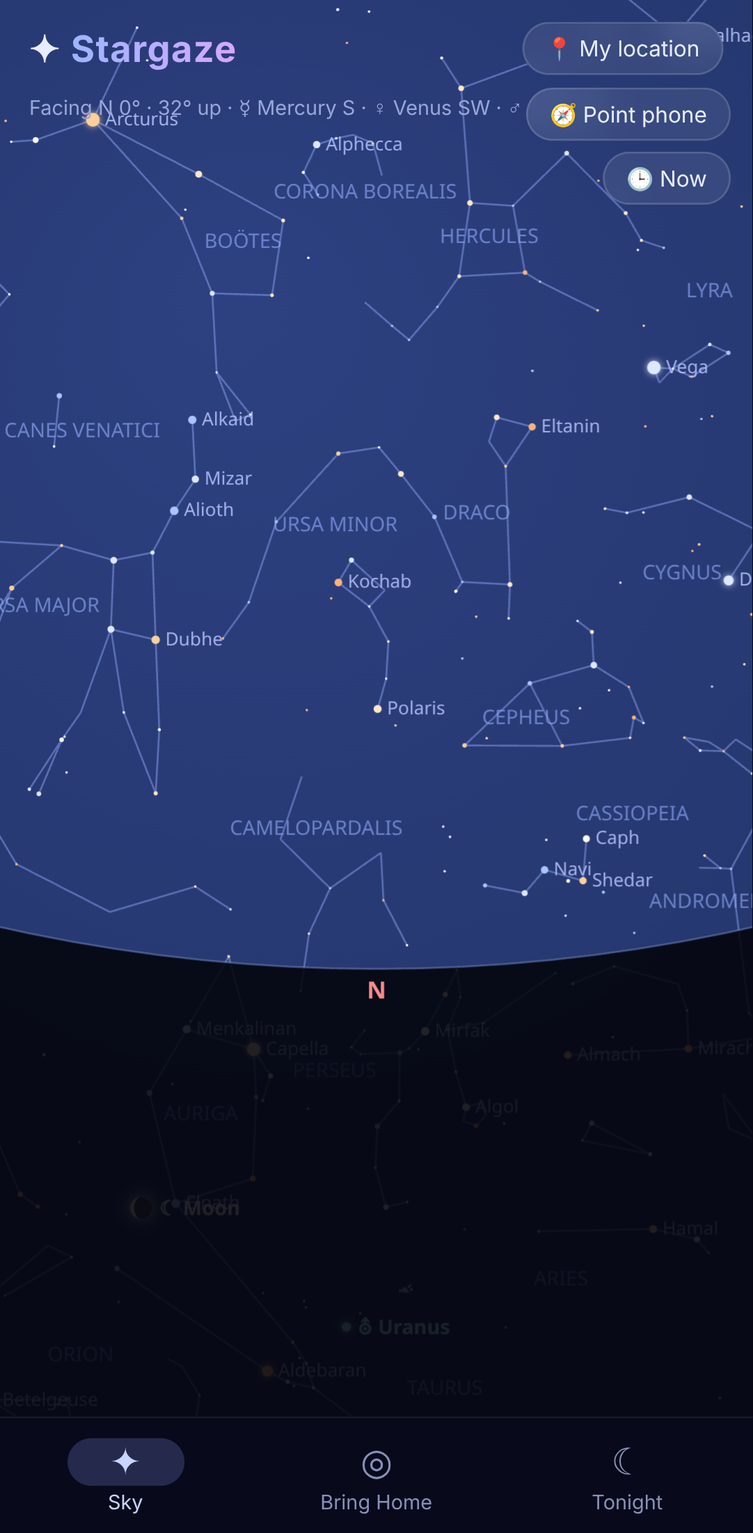
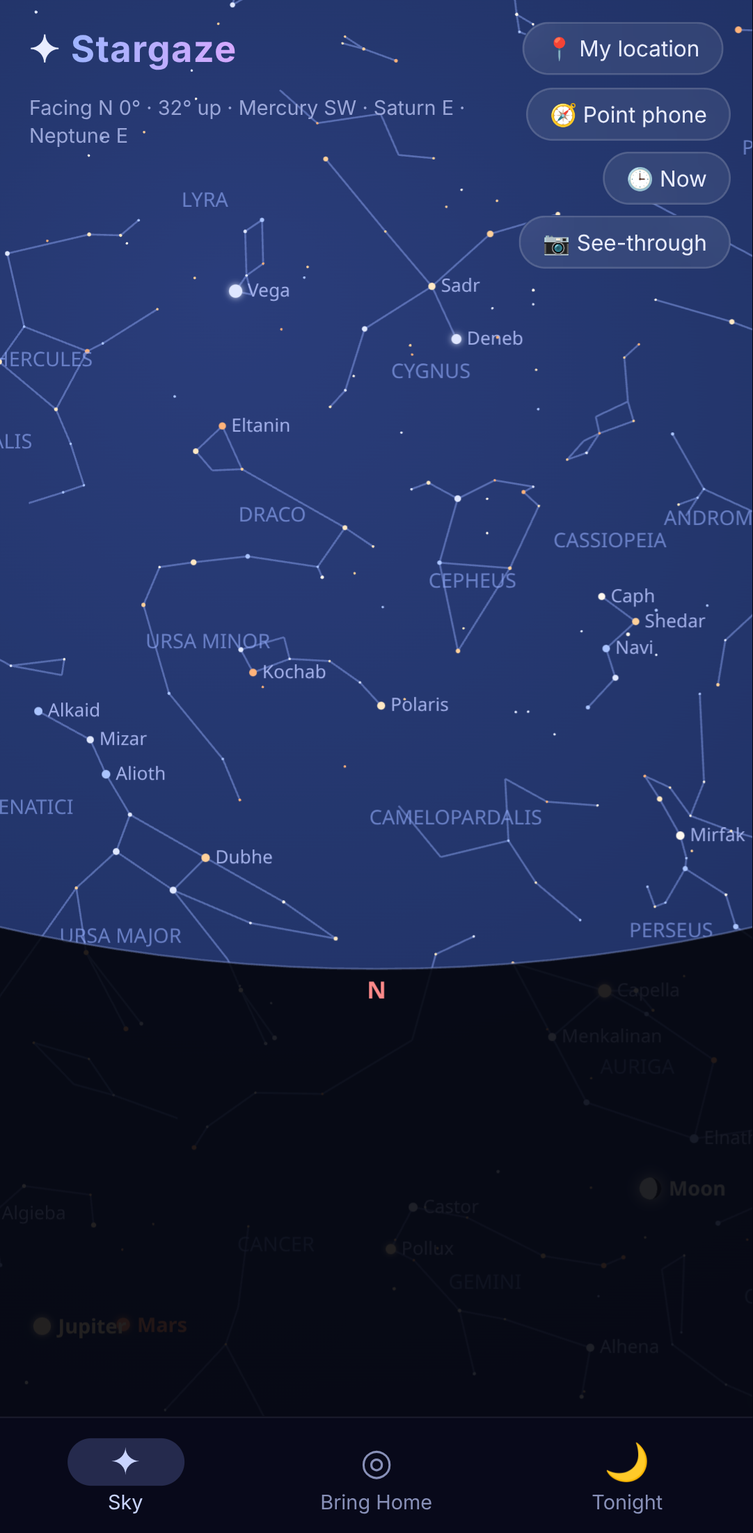
v2: full-sphere navigation, see-through camera mode, remove astrology content, SW v2

diff --git a/sky.js b/sky.js
@@ -8,7 +8,7 @@ const stars=D.stars.map(s=>({v:vec(s[0],s[1]),m:s[2],bv:s[3],name:s[4],des:s[5],
 const lines=Object.entries(D.lines).map(([id,segs])=>({id,segs:segs.map(sg=>sg.map(p=>vec(p[0],p[1])))}));
 const cons=Object.entries(D.cons).map(([id,c])=>({id,n:c.n,v:vec(c.ra,c.de),r:c.r}));
 const BODIES=['Sun','Moon','Mercury','Venus','Mars','Jupiter','Saturn','Uranus','Neptune'];
-const SYM={Sun:'☉',Moon:'☾',Mercury:'☿',Venus:'♀',Mars:'♂',Jupiter:'♃',Saturn:'♄',Uranus:'⛢',Neptune:'♆'};
+const SYM={Sun:'',Moon:'',Mercury:'',Venus:'',Mars:'',Jupiter:'',Saturn:'',Uranus:'',Neptune:''};
 const PCOL={Sun:'#fff3b0',Moon:'#f4f1e6',Mercury:'#d9cbb8',Venus:'#fff7dd',Mars:'#ff9a6a',Jupiter:'#ffe7c2',Saturn:'#ffe2a6',Uranus:'#b9f0ff',Neptune:'#8fb2ff'};
 function bvColor(bv){if(bv<0)return'#aac4ff';if(bv<.3)return'#dfe7ff';if(bv<.6)return'#fff8ee';if(bv<1)return'#ffe8c4';if(bv<1.4)return'#ffd09a';return'#ffb27a'}
 let M=null,planets=[],now=new Date(),lastCalc=0;
@@ -24,11 +24,21 @@ function recalc(){
 function enu(v){const x=M[0][0]*v[0]+M[1][0]*v[1]+M[2][0]*v[2],y=M[0][1]*v[0]+M[1][1]*v[1]+M[2][1]*v[2],z=M[0][2]*v[0]+M[1][2]*v[1]+M[2][2]*v[2];return [-y,x,z]}
 function altaz(e){return {alt:Math.asin(Math.max(-1,Math.min(1,e[2])))/R,az:((Math.atan2(e[0],e[1])/R)+360)%360}}
 function fromAltAz(alt,az){alt*=R;az*=R;return [Math.cos(alt)*Math.sin(az),Math.cos(alt)*Math.cos(az),Math.sin(alt)]}
-function dragBasis(){const a=st.az*R,l=st.alt*R;const f=[Math.sin(a)*Math.cos(l),Math.cos(a)*Math.cos(l),Math.sin(l)];
+function basisFromAltAz(az,alt){const a=az*R,l=alt*R;const f=[Math.sin(a)*Math.cos(l),Math.cos(a)*Math.cos(l),Math.sin(l)];
   const r=[Math.cos(a),-Math.sin(a),0];const u=[-Math.sin(a)*Math.sin(l),-Math.cos(a)*Math.sin(l),Math.cos(l)];return {f,r,u}}
+const cross=(a,b)=>[a[1]*b[2]-a[2]*b[1],a[2]*b[0]-a[0]*b[2],a[0]*b[1]-a[1]*b[0]];
+const norm=v=>{const l=Math.hypot(v[0],v[1],v[2])||1;return [v[0]/l,v[1]/l,v[2]/l]};
+function rotv(v,k,ang){const c=Math.cos(ang),s=Math.sin(ang),kv=cross(k,v),kd=k[0]*v[0]+k[1]*v[1]+k[2]*v[2];return v.map((x,i)=>x*c+kv[i]*s+k[i]*kd*(1-c))}
+function ortho(b){const f=norm(b.f);const r=norm(cross(f,b.u));const u=cross(r,f);return {f,r,u}}
+let view=basisFromAltAz(180,35);
+function setView(az,alt){view=basisFromAltAz(az,alt)}
+// yaw about world zenith, pitch about the camera's own right axis: works through zenith/nadir (no gimbal lock, no clamp)
+function dragBy(yaw,pitch){const Z=[0,0,1];let b={f:rotv(view.f,Z,yaw),r:rotv(view.r,Z,yaw),u:rotv(view.u,Z,yaw)};
+  b={f:rotv(b.f,b.r,pitch),r:b.r,u:rotv(b.u,b.r,pitch)};view=ortho(b)}
+function dragBasis(){return view}
 const dot=(a,b)=>a[0]*b[0]+a[1]*b[1]+a[2]*b[2];
 let B,S;
-function proj(e){const d=dot(e,B.f);if(d<-0.3)return null;const k=2*S/(1+d);return [W/2+dot(e,B.r)*k,H/2-dot(e,B.u)*k,d]}
+function proj(e){const d=dot(e,B.f);if(st.cam){if(d<0.05)return null;const k=S/d;return [W/2+dot(e,B.r)*k,H/2-dot(e,B.u)*k,d]}if(d<-0.3)return null;const k=2*S/(1+d);return [W/2+dot(e,B.r)*k,H/2-dot(e,B.u)*k,d]}
 function resize(){dpr=Math.min(window.devicePixelRatio||1,3);W=cv.clientWidth;H=cv.clientHeight;cv.width=W*dpr;cv.height=H*dpr;cx.setTransform(dpr,0,0,dpr,0,0)}
 window.addEventListener('resize',resize);
 // sensors
@@ -45,30 +55,58 @@ function onOri(e){
   const z=[cG*sA*sB+cA*sG, sA*sG-cA*cG*sB, cB*cG];
   const ang=((screen.orientation&&screen.orientation.angle)||window.orientation||0)*R;
   if(ang){const c=Math.cos(ang),s=Math.sin(ang);const nx=x.map((v,i)=>c*v+s*y[i]),ny=y.map((v,i)=>-s*x[i]+c*v);x=nx;y=ny}
-  const nb={r:x,u:y,f:z.map(v=>-v)};
-  if(!sens)sens=nb;else{const k=0.25;for(const key of ['r','u','f'])sens[key]=sens[key].map((v,i)=>v+(nb[key][i]-v)*k)}
+  feed({r:x,u:y,f:z.map(v=>-v)});
 }
+// Full rotation-matrix smoothing: low-pass each basis vector then re-orthonormalise (no Euler angles, no clamps)
+function feed(nb){if(!sens)sens=ortho(nb);else{const k=0.25;const m={};for(const key of ['r','u','f'])m[key]=sens[key].map((v,i)=>v+(nb[key][i]-v)*k);sens=ortho(m)}lastSens=Date.now()}
+let lastSens=0,aos=null;
+// Preferred on Android Chrome: AbsoluteOrientationSensor quaternion, screen-referenced (handles rotation, no gimbal lock)
+function startAOS(){try{if(!('AbsoluteOrientationSensor' in window))return false;
+  aos=new AbsoluteOrientationSensor({frequency:60,referenceFrame:'screen'});
+  aos.addEventListener('reading',()=>{const [qx,qy,qz,qw]=aos.quaternion;
+    const c0=[1-2*(qy*qy+qz*qz),2*(qx*qy+qz*qw),2*(qx*qz-qy*qw)],c1=[2*(qx*qy-qz*qw),1-2*(qx*qx+qz*qz),2*(qy*qz+qx*qw)],c2=[2*(qx*qz+qy*qw),2*(qy*qz-qx*qw),1-2*(qx*qx+qy*qy)];
+    gotAbs=true;feed({r:c0,u:c1,f:c2.map(v=>-v)})});
+  aos.addEventListener('error',()=>{try{aos.stop()}catch(e){}aos=null});aos.start();return true}catch(e){aos=null;return false}}
 const sBtn=document.getElementById('sensorBtn');
-let gotAbs=false;
-sBtn.onclick=async()=>{
-  if(st.sensor){st.sensor=false;sBtn.classList.remove('a');sBtn.textContent='🧭 Point phone';const a=altaz(sens?sens.f:B.f);st.az=a.az;st.alt=a.alt;return}
-  try{if(typeof DeviceOrientationEvent!=='undefined'&&DeviceOrientationEvent.requestPermission){const p=await DeviceOrientationEvent.requestPermission();if(p!=='granted')throw 0}}catch(e){alert('Motion sensor permission denied — drag to look around instead.');return}
-  window.addEventListener('deviceorientationabsolute',e=>{gotAbs=true;onOri(e)},true);
-  window.addEventListener('deviceorientation',e=>{if(!gotAbs)onOri(e)},true);
+let gotAbs=false,listening=false;
+const oAbs=e=>{if(aos&&Date.now()-lastSens<300)return;gotAbs=true;onOri(e)},oRel=e=>{if(!gotAbs)onOri(e)};
+async function startSensor(quiet){
+  try{if(typeof DeviceOrientationEvent!=='undefined'&&DeviceOrientationEvent.requestPermission){const p=await DeviceOrientationEvent.requestPermission();if(p!=='granted')throw 0}}catch(e){if(!quiet)alert('Motion sensor permission denied — drag to look around instead.');return false}
+  startAOS();
+  if(!listening){window.addEventListener('deviceorientationabsolute',oAbs,true);window.addEventListener('deviceorientation',oRel,true);listening=true}
   st.sensor=true;sBtn.classList.add('a');sBtn.textContent='🧭 Live · tap to stop';
-  setTimeout(()=>{if(st.sensor&&!sens){alert('No compass/tilt sensor data from this browser. Drag to pan instead.');st.sensor=false;sBtn.classList.remove('a');sBtn.textContent='🧭 Point phone'}},2500);
-};
+  setTimeout(()=>{if(st.sensor&&!sens){if(!quiet)alert('No compass/tilt sensor data from this browser. Drag to pan instead.');stopSensor()}},2500);return true}
+function stopSensor(){if(sens)view=ortho(sens);st.sensor=false;sens=null;if(aos){try{aos.stop()}catch(e){}aos=null}
+  if(listening){window.removeEventListener('deviceorientationabsolute',oAbs,true);window.removeEventListener('deviceorientation',oRel,true);listening=false;gotAbs=false}
+  sBtn.classList.remove('a');sBtn.textContent='🧭 Point phone'}
+sBtn.onclick=()=>{if(st.sensor){stopSensor();return}startSensor()};
+// ---- See-through camera mode ----
+const vid=document.getElementById('camVid'),camBtn=document.getElementById('camBtn'),fovBox=document.getElementById('fovBox'),fovIn=document.getElementById('fovIn'),fovOut=document.getElementById('fovOut');
+let camStream=null;st.cam=false;st.camVfov=+(localStorage.getItem('camVfov')||65);
+fovIn.value=st.camVfov;fovOut.textContent=st.camVfov+'°';
+fovIn.oninput=()=>{st.camVfov=+fovIn.value;fovOut.textContent=st.camVfov+'°';localStorage.setItem('camVfov',st.camVfov)};
+function curFovH(){return st.cam?2*Math.atan(Math.tan(st.camVfov*R/2)*W/H)/R:st.fov}
+async function startCam(){
+  if(!navigator.mediaDevices||!navigator.mediaDevices.getUserMedia){alert('Camera not available in this browser (needs HTTPS).');return}
+  if(!st.sensor)startSensor(true);  // keep inside the tap gesture for iOS permission
+  try{camStream=await navigator.mediaDevices.getUserMedia({audio:false,video:{facingMode:{ideal:'environment'},width:{ideal:1920},height:{ideal:1080}}})}
+  catch(e){console.warn('camera',e&&e.name,e&&e.message);alert('Camera permission was denied or no camera found.');return}
+  vid.srcObject=camStream;vid.muted=true;vid.setAttribute('playsinline','');try{await vid.play()}catch(e){}
+  st.cam=true;document.body.classList.add('cam');camBtn.classList.add('a');camBtn.textContent='📷 Camera on';fovBox.hidden=false}
+function stopCam(){if(camStream)camStream.getTracks().forEach(t=>t.stop());camStream=null;vid.srcObject=null;st.cam=false;document.body.classList.remove('cam');camBtn.classList.remove('a');camBtn.textContent='📷 See-through';fovBox.hidden=true}
+camBtn.onclick=()=>{st.cam?stopCam():startCam()};
+document.addEventListener('visibilitychange',()=>{if(document.hidden&&st.cam)stopCam()});
 // time button
 const tBtn=document.getElementById('timeBtn');const OFFS=[0,1,2,3,4,6,8,10];
 tBtn.onclick=()=>{const i=(OFFS.indexOf(st.offset)+1)%OFFS.length;st.offset=OFFS[i];tBtn.textContent=st.offset?'🕒 '+App.fmtT(time())+' (+'+st.offset+'h)':'🕒 Now';recalc()};
 // drag / pinch / tap
 const ptr=new Map();let down=null,pinch0=null;
-cv.addEventListener('pointerdown',e=>{cv.setPointerCapture(e.pointerId);ptr.set(e.pointerId,[e.clientX,e.clientY]);if(ptr.size===1)down={x:e.clientX,y:e.clientY,az:st.az,alt:st.alt,moved:false};
+cv.addEventListener('pointerdown',e=>{cv.setPointerCapture(e.pointerId);ptr.set(e.pointerId,[e.clientX,e.clientY]);if(ptr.size===1)down={x:e.clientX,y:e.clientY,lx:e.clientX,ly:e.clientY,moved:false};
   if(ptr.size===2){const p=[...ptr.values()];pinch0={d:Math.hypot(p[0][0]-p[1][0],p[0][1]-p[1][1]),fov:st.fov}}});
 cv.addEventListener('pointermove',e=>{if(!ptr.has(e.pointerId))return;ptr.set(e.pointerId,[e.clientX,e.clientY]);
   if(ptr.size===2&&pinch0){const p=[...ptr.values()];const d=Math.hypot(p[0][0]-p[1][0],p[0][1]-p[1][1]);st.fov=Math.max(20,Math.min(130,pinch0.fov*pinch0.d/d));if(down)down.moved=true;return}
   if(!down)return;const dx=e.clientX-down.x,dy=e.clientY-down.y;if(Math.hypot(dx,dy)>8)down.moved=true;
-  if(down.moved&&!st.sensor){const degpx=st.fov/W;st.az=((down.az-dx*degpx)%360+360)%360;st.alt=Math.max(-20,Math.min(90,down.alt+dy*degpx))}});
+  if(down.moved&&!st.sensor){const radpx=curFovH()*R/W;dragBy(-(e.clientX-down.lx)*radpx*(view.u[2]<0?-1:1),(e.clientY-down.ly)*radpx)}down.lx=e.clientX;down.ly=e.clientY;});
 const up=e=>{ptr.delete(e.pointerId);if(ptr.size<2)pinch0=null;if(down&&!down.moved&&ptr.size===0)tap(e.clientX-cv.getBoundingClientRect().left,e.clientY-cv.getBoundingClientRect().top);if(ptr.size===0)down=null};
 cv.addEventListener('pointerup',up);cv.addEventListener('pointercancel',e=>{ptr.delete(e.pointerId);down=null});
 cv.addEventListener('wheel',e=>{st.fov=Math.max(20,Math.min(130,st.fov*(e.deltaY>0?1.1:0.9)));e.preventDefault()},{passive:false});
@@ -83,7 +121,7 @@ function constOf(v){let best=null,bd=9;for(const c of cons){const d=1-dot(c.v,v)
 function openCard(o){st.sel=o;cur=o;tabK='sailors';const e=enu(o.v),aa=altaz(e);
   const pos=`Now ${aa.alt.toFixed(0)}° up in the ${App.dirName(aa.az)} (az ${aa.az.toFixed(0)}°)`+(aa.alt<0?' — below the horizon':'');
   let t,sub,data;
-  if(o.kind==='planet'){data=F.planets[o.name]||{};t=SYM[o.name]+' '+o.name;sub=(data.sub||'')+' · '+(o.name==='Moon'?(o.dist*149597870.7).toFixed(0)+' km away':o.dist.toFixed(2)+' AU away');
+  if(o.kind==='planet'){data=F.planets[o.name]||{};t=o.name;sub=(data.sub||'')+' · '+(o.name==='Moon'?(o.dist*149597870.7).toFixed(0)+' km away':o.dist.toFixed(2)+' AU away');
     if(o.name==='Moon'){const ill=A.Illumination('Moon',A.MakeTime(now));data=Object.assign({},data,{f:[[Math.round(ill.phase_fraction*100)+'%','lit'],...data.f.slice(0,2)]})}
     else if(o.mag!=null)data=Object.assign({},data,{f:[[o.mag.toFixed(1),'magnitude now'],...data.f.slice(1)]})}
   else if(o.kind==='star'){data=F.stars[o.name];const c=constOf(o.v);t=o.name;sub=data?data.sub:`${o.des||''} ${c?c.n:''} · mag ${o.m.toFixed(1)}`;
@@ -99,7 +137,7 @@ function openCard(o){st.sel=o;cur=o;tabK='sailors';const e=enu(o.v),aa=altaz(e);
 }
 function fillTab(){document.querySelectorAll('#cTabs button').forEach(b=>b.classList.toggle('a',b.dataset.t===tabK));
   const k={sailors:'s',myth:'m',science:'c'}[tabK];let txt=cur.data[k]||'';if(tabK==='sailors')txt+=' '+cur.pos+'.';document.getElementById('cText').textContent=txt}
-window.SkyOpen=name=>{const p=planets.find(x=>x.name===name);if(p){App.show('sky');openCard({kind:'planet',...p});const a=altaz(enu(p.v));if(!st.sensor){st.az=a.az;st.alt=Math.max(5,a.alt)}}};
+window.SkyOpen=name=>{const p=planets.find(x=>x.name===name);if(p){App.show('sky');openCard({kind:'planet',...p});const a=altaz(enu(p.v));if(!st.sensor)setView(a.az,a.alt)}};
 // horizon circle in stereographic projection
 function circle3(a,b,c){const d=2*(a[0]*(b[1]-c[1])+b[0]*(c[1]-a[1])+c[0]*(a[1]-b[1]));if(Math.abs(d)<1e-6)return null;
   const s=p=>p[0]*p[0]+p[1]*p[1];const ux=(s(a)*(b[1]-c[1])+s(b)*(c[1]-a[1])+s(c)*(a[1]-b[1]))/d,uy=(s(a)*(c[0]-b[0])+s(b)*(a[0]-c[0])+s(c)*(b[0]-a[0]))/d;return [ux,uy,Math.hypot(a[0]-ux,a[1]-uy)]}
@@ -108,12 +146,12 @@ function draw(){
   if(App.view!=='sky')return;
   if(!M||performance.now()-lastCalc>5000)recalc();
   B=st.sensor&&sens?sens:dragBasis();
-  S=(W/2)/(2*Math.tan(st.fov*R/4));
+  S=st.cam?(H/2)/Math.tan(st.camVfov*R/2):(W/2)/(2*Math.tan(st.fov*R/4));
   const g=cx.createRadialGradient(W*.3,H*.2,0,W*.5,H*.5,Math.max(W,H));g.addColorStop(0,'#1b2350');g.addColorStop(.45,'#0a0f2a');g.addColorStop(1,'#04050d');
-  cx.fillStyle=g;cx.fillRect(0,0,W,H);
+  if(st.cam)cx.clearRect(0,0,W,H);else{cx.fillStyle=g;cx.fillRect(0,0,W,H)}
   // sky brightness from sun altitude
   const sun=planets[0],sunAlt=altaz(enu(sun.v)).alt;
-  if(sunAlt>-18){const k=Math.min(1,(sunAlt+18)/18);cx.fillStyle=`rgba(60,90,170,${0.55*k})`;cx.fillRect(0,0,W,H)}
+  if(sunAlt>-18&&!st.cam){const k=Math.min(1,(sunAlt+18)/18);cx.fillStyle=`rgba(60,90,170,${0.55*k})`;cx.fillRect(0,0,W,H)}
   hits=[];
   const fa=altaz(B.f);
   // constellation lines
@@ -121,7 +159,7 @@ function draw(){
   for(const L of lines)for(const sg of L.segs){let p0=null;for(const v of sg){const p=proj(enu(v));if(p&&p0&&Math.abs(p[0]-p0[0])<W*1.5){cx.moveTo(p0[0],p0[1]);cx.lineTo(p[0],p[1])}p0=p}}
   cx.stroke();
   // stars
-  const lim=st.fov>90?5:st.fov>50?5.5:6.5;
+  const fH=curFovH(),lim=fH>90?5:fH>50?5.5:6.5;if(st.cam){cx.shadowColor='#000'}
   for(const s of stars){if(s.m>lim)continue;const p=proj(enu(s.v));if(!p||p[0]<-10||p[0]>W+10||p[1]<-10||p[1]>H+10)continue;
     const r=Math.max(0.7,(4.8-s.m)*0.8*(80/st.fov)**0.4);cx.fillStyle=bvColor(s.bv);
     if(s.m<1.5){cx.shadowColor=cx.fillStyle;cx.shadowBlur=10}cx.beginPath();cx.arc(p[0],p[1],r,0,7);cx.fill();cx.shadowBlur=0;
@@ -138,16 +176,20 @@ function draw(){
       cx.fillStyle='#2a2c3a';cx.beginPath();cx.arc(x,y,r,0,7);cx.fill();cx.fillStyle=PCOL.Moon;cx.beginPath();
       if(wax)cx.arc(x,y,r,-Math.PI/2,Math.PI/2,false);else cx.arc(x,y,r,Math.PI/2,-Math.PI/2,false);cx.fill();
       const ex=r*Math.abs(2*k-1);cx.fillStyle=k>0.5?PCOL.Moon:'#2a2c3a';cx.beginPath();cx.ellipse(x,y,Math.max(.01,ex),r,0,0,7);cx.fill()}
-    cx.fillStyle=PCOL[pl.name];cx.font='bold 11px system-ui';cx.fillText(SYM[pl.name]+' '+pl.name,p[0]+r+4,p[1]+4);hits.push({x:p[0],y:p[1],o:{kind:'planet',...pl},pri:8})}
+    cx.fillStyle=PCOL[pl.name];cx.font='bold 11px system-ui';cx.fillText(pl.name,p[0]+r+4,p[1]+4);hits.push({x:p[0],y:p[1],o:{kind:'planet',...pl},pri:8})}
   // ground
-  const hp=[fromAltAz(0,fa.az-90),fromAltAz(0,fa.az),fromAltAz(0,fa.az+90)].map(proj);
-  const test=proj(fromAltAz(Math.min(-10,fa.alt-30),fa.az));
-  if(hp.every(Boolean)){const c=circle3(hp[0],hp[1],hp[2]);cx.fillStyle='rgba(3,4,10,.88)';cx.beginPath();
+  // horizon reference azimuth: horizontal part of view dir; near zenith/nadir fall back to the screen-up axis (no gimbal singularity)
+  const hz=Math.hypot(B.f[0],B.f[1])>0.05?B.f:(B.f[2]>0?B.u.map(v=>-v):B.u),haz=((Math.atan2(hz[0],hz[1])/R)+360)%360;
+  const spread=st.cam?40:90;
+  const hp=[fromAltAz(0,haz-spread),fromAltAz(0,haz),fromAltAz(0,haz+spread)].map(proj);
+  let test=proj(fromAltAz(Math.min(-10,fa.alt-30),haz));
+  if(!test&&st.cam)test=fa.alt>0?null:[W/2,H/2];
+  if(hp.every(Boolean)){const c=st.cam?null:circle3(hp[0],hp[1],hp[2]);cx.fillStyle=st.cam?'rgba(3,4,10,.22)':'rgba(3,4,10,.88)';cx.beginPath();
     if(c&&c[2]<1e5){const inside=test?Math.hypot(test[0]-c[0],test[1]-c[1])<c[2]:fa.alt>0===false;
       if(inside){cx.arc(c[0],c[1],c[2],0,7)}else{cx.rect(0,0,W,H);cx.moveTo(c[0]+c[2],c[1]);cx.arc(c[0],c[1],c[2],0,7,true)}cx.fill('evenodd');
       cx.strokeStyle='rgba(120,140,200,.5)';cx.beginPath();cx.arc(c[0],c[1],c[2],0,7);cx.stroke()}
-    else{/*line*/const a=hp[0],b=hp[2],nx=-(b[1]-a[1]),ny=b[0]-a[0];const sgn=test?Math.sign((test[0]-a[0])*nx+(test[1]-a[1])*ny):1;const L=1e4;
-      cx.moveTo(a[0]-(b[0]-a[0])*L,a[1]-(b[1]-a[1])*L);cx.lineTo(a[0]+(b[0]-a[0])*L,a[1]+(b[1]-a[1])*L);cx.lineTo(a[0]+(b[0]-a[0])*L+nx*L*sgn,a[1]+(b[1]-a[1])*L+ny*L*sgn);cx.lineTo(a[0]-(b[0]-a[0])*L+nx*L*sgn,a[1]-(b[1]-a[1])*L+ny*L*sgn);cx.fill()}}
+    else{/*line*/const a=hp[0],b=hp[2],nx=-(b[1]-a[1]),ny=b[0]-a[0];const sgn=test?Math.sign((test[0]-a[0])*nx+(test[1]-a[1])*ny)||1:-(Math.sign((W/2-a[0])*nx+(H/2-a[1])*ny)||1);const L=1e4;
+      cx.moveTo(a[0]-(b[0]-a[0])*L,a[1]-(b[1]-a[1])*L);cx.lineTo(a[0]+(b[0]-a[0])*L,a[1]+(b[1]-a[1])*L);cx.lineTo(a[0]+(b[0]-a[0])*L+nx*L*sgn,a[1]+(b[1]-a[1])*L+ny*L*sgn);cx.lineTo(a[0]-(b[0]-a[0])*L+nx*L*sgn,a[1]-(b[1]-a[1])*L+ny*L*sgn);cx.fill();cx.strokeStyle='rgba(140,170,255,.7)';cx.beginPath();cx.moveTo(a[0]-(b[0]-a[0])*L,a[1]-(b[1]-a[1])*L);cx.lineTo(a[0]+(b[0]-a[0])*L,a[1]+(b[1]-a[1])*L);cx.stroke()}}
   // cardinal labels
   cx.font='bold 13px system-ui';cx.textAlign='center';
   [['N',0],['NE',45],['E',90],['SE',135],['S',180],['SW',225],['W',270],['NW',315]].forEach(([n,az])=>{const p=proj(fromAltAz(0,az));if(p&&p[2]>0){cx.fillStyle=n==='N'?'#ff8a8a':'#9aa6d8';cx.fillText(n,p[0],p[1]+16)}});
@@ -155,11 +197,11 @@ function draw(){
   // selection reticle
   if(st.sel){const p=proj(enu(st.sel.v));if(p){cx.strokeStyle='#ffd77a';cx.lineWidth=1.5;cx.shadowColor='#ffd77a';cx.shadowBlur=12;cx.beginPath();cx.arc(p[0],p[1],18,0,7);cx.stroke();cx.shadowBlur=0}}
   // hud
-  const vis=planets.filter(p=>p.name!=='Sun'&&altaz(enu(p.v)).alt>0).map(p=>SYM[p.name]+' '+p.name+' '+App.dirName(altaz(enu(p.v)).az)).slice(0,3).join(' · ');
+  const vis=planets.filter(p=>p.name!=='Sun'&&altaz(enu(p.v)).alt>0).map(p=>p.name+' '+App.dirName(altaz(enu(p.v)).az)).slice(0,3).join(' · ');
   hud.textContent=`Facing ${App.dirName(fa.az)} ${fa.az.toFixed(0)}° · ${fa.alt.toFixed(0)}° up${st.sensor?' · live':''}${vis?' · '+vis:''}`;
 }
 const hud=document.getElementById('hud');
-window.Sky={resize,st,openCard,recalc};
+window.Sky={resize,st,openCard,recalc,setView,dragBy,get view(){return view}};
 App.onLoc(recalc);
 App.view=App.view||'sky';resize();recalc();draw();
 })();

diff --git a/facts.js b/facts.js
@@ -12,10 +12,10 @@ Betelgeuse:{sub:'α Orionis · ~550 ly',s:'Orion’s red shoulder. With Sirius a
 Procyon:{sub:'α Canis Minoris · 11.5 ly',s:'Rises shortly before Sirius — its name means “before the dog”.',m:'The lesser of Orion’s two hunting dogs.',c:'A yellow-white star with a white-dwarf companion, one of our nearest neighbours.',f:[['0.34','magnitude'],['11.5 ly','distance'],['F5 IV','type']]},
 Altair:{sub:'α Aquilae · 17 ly',s:'Southern corner of the Summer Triangle; flanked by two fainter stars, making a short line that is easy to spot.',m:'The cowherd Niulang of the Qixi legend, across the Milky Way from Vega.',c:'Spins once every ~9 hours, so fast that its equator bulges about 20% wider than its poles.',f:[['0.76','magnitude'],['17 ly','distance'],['A7 V','type']]},
 Deneb:{sub:'α Cygni · ~2,600 ly',s:'Top of the Northern Cross and a corner of the Summer Triangle.',m:'Arabic for “tail” — the tail of the swan.',c:'One of the most luminous stars visible to the naked eye — perhaps 100,000× the Sun — and much farther away than the other Summer Triangle stars.',f:[['1.25','magnitude'],['~2,600 ly','distance'],['A2 Ia','supergiant']]},
-Aldebaran:{sub:'α Tauri · 65 ly',s:'Orion’s belt points up and to the right to this orange “eye of the bull”, next to the V-shaped Hyades cluster. It lies near the ecliptic, so the Moon often passes in front of it (occultations).',m:'Arabic al-dabarān, “the follower” — it follows the Pleiades across the sky.',c:'An orange giant ~44× the Sun’s diameter. It is not part of the Hyades; it just lies in front of them.',f:[['0.86','magnitude'],['65 ly','distance'],['K5 III','orange giant']]},
-Antares:{sub:'α Scorpii · ~550 ly',s:'The red heart of the Scorpion, low in the south on summer evenings. Near the ecliptic, so planets pass close by.',m:'“Rival of Ares (Mars)”, for its red colour.',c:'A red supergiant around 700× the Sun’s diameter.',f:[['~1.0','magnitude'],['~550 ly','distance'],['M1.5 Iab','supergiant']]},
-Spica:{sub:'α Virginis · 250 ly',s:'“Speed on to Spica”: continue the arc from Arcturus. Near the ecliptic. Hipparchus discovered precession around 130 BC partly by comparing Spica’s position with older records.',m:'Latin for “ear of grain”, held in Virgo’s hand.',c:'A close pair of hot blue stars orbiting every 4 days, distorted into egg shapes by each other’s gravity.',f:[['0.97','magnitude'],['250 ly','distance'],['B1 III-IV','binary']]},
-Regulus:{sub:'α Leonis · 79 ly',s:'Heart of the Lion, at the base of the backwards-question-mark “Sickle”. It lies almost exactly on the ecliptic.',m:'“Little king” in Latin; one of the four Royal Stars of Persia.',c:'Spins so fast (~16 hours) it is close to flying apart.',f:[['1.36','magnitude'],['79 ly','distance'],['B8 IV','type']]},
+Aldebaran:{sub:'α Tauri · 65 ly',s:'Orion’s belt points up and to the right to this orange “eye of the bull”, next to the V-shaped Hyades cluster. It sits close to the path the Moon and planets follow, so the Moon often passes in front of it (an occultation).',m:'Arabic al-dabarān, “the follower” — it follows the Pleiades across the sky.',c:'An orange giant ~44× the Sun’s diameter. It is not part of the Hyades; it just lies in front of them.',f:[['0.86','magnitude'],['65 ly','distance'],['K5 III','orange giant']]},
+Antares:{sub:'α Scorpii · ~550 ly',s:'The red heart of the Scorpion, low in the south on summer evenings. It lies close to the path the planets follow, so they often pass nearby.',m:'“Rival of Ares (Mars)”, for its red colour.',c:'A red supergiant around 700× the Sun’s diameter.',f:[['~1.0','magnitude'],['~550 ly','distance'],['M1.5 Iab','supergiant']]},
+Spica:{sub:'α Virginis · 250 ly',s:'“Speed on to Spica”: continue the arc from Arcturus. Hipparchus discovered precession around 130 BC partly by comparing Spica’s position with older records.',m:'Latin for “ear of grain”, held in Virgo’s hand.',c:'A close pair of hot blue stars orbiting every 4 days, distorted into egg shapes by each other’s gravity.',f:[['0.97','magnitude'],['250 ly','distance'],['B1 III-IV','binary']]},
+Regulus:{sub:'α Leonis · 79 ly',s:'Heart of the Lion, at the base of the backwards-question-mark “Sickle”. The Moon regularly passes in front of it.',m:'“Little king” in Latin; Copernicus is credited with the Latin name.',c:'Spins so fast (~16 hours) it is close to flying apart.',f:[['1.36','magnitude'],['79 ly','distance'],['B8 IV','type']]},
 Fomalhaut:{sub:'α Piscis Austrini · 25 ly',s:'The “lonely star of autumn”, low in the south with no bright neighbours.',m:'Arabic for “mouth of the (southern) fish”.',c:'Surrounded by a bright dusty debris ring imaged by Hubble and JWST.',f:[['1.16','magnitude'],['25 ly','distance'],['A3 V','type']]},
 Pollux:{sub:'β Geminorum · 34 ly',s:'With Castor marks the heads of the Twins, east of Orion in winter.',m:'Pollux (Polydeuces) was the immortal twin; sailors saw the twins as protectors — St. Elmo’s fire was called “Castor and Pollux”.',c:'An orange giant with a confirmed giant planet (Thestias).',f:[['1.14','magnitude'],['34 ly','distance'],['K0 III','giant']]},
 Castor:{sub:'α Geminorum · 51 ly',s:'The other Twin; sailors invoked the Dioscuri for safe passage in storms.',m:'The mortal twin, a famed horseman.',c:'A system of six stars: three binary pairs.',f:[['1.58','magnitude'],['51 ly','distance'],['6 stars','system']]},
@@ -24,7 +24,7 @@ Merak:{sub:'β Ursae Majoris · 79 ly',s:'Bottom pointer star of the Big Dipper 
 Mizar:{sub:'ζ Ursae Majoris · 83 ly',s:'Middle of the Dipper’s handle; with faint Alcor beside it, it was a traditional eyesight test.',m:'Alcor and Mizar were the “horse and rider”.',c:'Mizar was the first double star seen in a telescope (1617) and the first spectroscopic binary found.',f:[['2.2','magnitude'],['83 ly','distance'],['4+ stars','system']]},
 Alnilam:{sub:'ε Orionis · ~2,000 ly',s:'Middle of Orion’s Belt. The belt rises almost due east, sets almost due west.',m:'Arabic “string of pearls”.',c:'A blue supergiant hundreds of thousands of times as luminous as the Sun.',f:[['1.69','magnitude'],['~2,000 ly','distance'],['B0 Ia','supergiant']]},
 Achernar:{sub:'α Eridani · 139 ly',s:'Marks the end of the river Eridanus; too far south to see well from Louisiana.',m:'“End of the river”.',c:'The flattest star known — spins so fast its equator is ~35% wider than its poles.',f:[['0.46','magnitude'],['139 ly','distance'],['B6 V','type']]},
-Alpheratz:{sub:'α Andromedae · 97 ly',s:'Shared corner of the Great Square of Pegasus; the autumn signpost to the Andromeda Galaxy.',m:'Arabic “navel of the horse”.',c:'A mercury-manganese star with a close companion.',f:[['2.06','magnitude'],['97 ly','distance'],['B8 IV','type']]},
+Alpheratz:{sub:'α Andromedae · 97 ly',s:'Shared corner of the Great Square of Pegasus; the autumn landmark to the Andromeda Galaxy.',m:'Arabic “navel of the horse”.',c:'A mercury-manganese star with a close companion.',f:[['2.06','magnitude'],['97 ly','distance'],['B8 IV','type']]},
 Mirfak:{sub:'α Persei · ~510 ly',s:'Brightest star of Perseus, between Cassiopeia and the Pleiades.',m:'Arabic “elbow”.',c:'A yellow-white supergiant inside a loose star cluster (Alpha Persei cluster).',f:[['1.8','magnitude'],['~510 ly','distance'],['F5 Ib','supergiant']]},
 Algol:{sub:'β Persei · The Demon Star · 90 ly',s:'Every 2.87 days it dims from magnitude 2.1 to 3.4 for about 10 hours — visible to the naked eye.',m:'“Head of the ghoul” — the head of Medusa held by Perseus.',c:'An eclipsing binary: a dimmer star passes in front of the brighter one.',f:[['2.1–3.4','magnitude'],['2.87 d','period'],['eclipsing','binary']]},
 Alkaid:{sub:'η Ursae Majoris · 104 ly',s:'Tip of the Dipper’s handle; arc from here to Arcturus.',m:'“Leader of the mourners”.',c:'A hot blue B-type star.',f:[['1.86','magnitude'],['104 ly','distance'],['B3 V','type']]},
@@ -42,7 +42,7 @@ Uranus:{sub:'Planet · ice giant',s:'At magnitude ~5.7 it is just at naked-eye l
 Neptune:{sub:'Planet · outermost',s:'Needs binoculars or a telescope (magnitude ~7.8).',m:'Roman god of the sea.',c:'Predicted by mathematics from Uranus’ orbit before being seen in 1846. Fastest winds in the solar system, over 2,000 km/h.',f:[['165 y','year'],['3.9× Earth','diameter'],['16','moons']]},
 },
 cons:{
-UMa:{s:'The Big Dipper (part of Ursa Major) is the classic northern signpost: the bowl’s pointer stars lead to Polaris. In the US South, enslaved people sang of “following the drinking gourd” north to freedom.',m:'Zeus turned the nymph Callisto into a bear; she was placed in the sky with her son Arcas (Ursa Minor / Boötes).',c:'Five of the Dipper’s seven stars are an actual moving group of stars (the Ursa Major Moving Group) about 80 light-years away.'},
+UMa:{s:'The Big Dipper (part of Ursa Major) is the classic northern landmark: the bowl’s pointer stars lead to Polaris. In the US South, enslaved people sang of “following the drinking gourd” north to freedom.',m:'Zeus turned the nymph Callisto into a bear; she was placed in the sky with her son Arcas (Ursa Minor / Boötes).',c:'Five of the Dipper’s seven stars are an actual moving group of stars (the Ursa Major Moving Group) about 80 light-years away.'},
 UMi:{s:'Polaris is the tip of the Little Dipper’s handle. Kochab and Pherkad, the “Guardians of the Pole”, were used as a night clock.',m:'Arcas, son of Callisto, or one of the nymphs who nursed Zeus.',c:'Most of its stars are faint; you need dark skies to see the whole dipper.'},
 Ori:{s:'Orion’s Belt rises due east and sets due west. Belt → down-left to Sirius; up-right to Aldebaran and the Pleiades.',m:'Orion the hunter, killed by a scorpion; the gods put them on opposite sides of the sky so Orion sets as Scorpius rises.',c:'The Orion Nebula (M42) in the sword, 1,350 ly away, is a star-forming nursery visible to the naked eye.'},
 Cas:{s:'The W (or M) of Cassiopeia sits opposite the Big Dipper across Polaris, so one of them is always well placed for finding north.',m:'Vain Queen Cassiopeia boasted of her beauty and was set in the sky to circle the pole, sometimes hanging upside down.',c:'Tycho Brahe’s 1572 supernova appeared here; Cassiopeia A is the remnant of another young supernova.'},

diff --git a/index.html b/index.html
@@ -7,11 +7,14 @@
 <header class=top><div class=brand>✦ <span>Stargaze</span></div><button class=chip id=locChip>📍 West Monroe</button></header>
 
 <section id=v-sky class="view on">
+  <video id=camVid playsinline muted autoplay webkit-playsinline></video>
   <canvas id=sky></canvas>
   <div class=hud id=hud>Facing N · 30° up</div>
   <div class=skybtns>
     <button class=chip id=sensorBtn>🧭 Point phone</button>
     <button class=chip id=timeBtn title="Time">🕒 Now</button>
+    <button class=chip id=camBtn>📷 See-through</button>
+    <label class="chip fov" id=fovBox hidden>Lens <input id=fovIn type=range min=40 max=95 step=1 value=65> <output id=fovOut>65°</output></label>
   </div>
   <div class="glass card hidden" id=card>
     <div class=cardhead><div><h2 id=cTitle></h2><div class=sub id=cSub></div></div><button class=x id=cClose>✕</button></div>
@@ -26,7 +29,7 @@
   </model-viewer>
   <div class="glass panel">
     <div class=pick id=pick>
-      <button data-m=saturn class=a>♄ Saturn</button><button data-m=jupiter>♃ Jupiter</button><button data-m=mars>♂ Mars</button><button data-m=moon>☾ Moon</button><button data-m=solar_system>☉ Solar system</button>
+      <button data-m=saturn class=a>Saturn</button><button data-m=jupiter>Jupiter</button><button data-m=mars>Mars</button><button data-m=moon>Moon</button><button data-m=solar_system>Solar system</button>
     </div>
     <h3 id=mTitle></h3><p id=mText></p>
     <p class=fine id=arNote></p>
@@ -38,7 +41,7 @@
 <nav class=nav>
   <button data-v=sky class=on><b>✦</b>Sky</button>
   <button data-v=home><b>◎</b>Bring Home</button>
-  <button data-v=tonight><b>☾</b>Tonight</button>
+  <button data-v=tonight><b>🌙</b>Tonight</button>
 </nav>
 <script src="lib/astronomy.browser.min.js"></script>
 <script src="lib/satellite.min.js"></script>

diff --git a/style.css b/style.css
@@ -15,6 +15,10 @@ button{font:inherit;color:inherit;border:0;background:none;cursor:pointer}
 .nav b{display:block;font-size:20px;margin:0 auto 2px;font-weight:400;width:64px;border-radius:16px;padding:1px 0}
 .nav .on{color:#c9d4ff}.nav .on b{background:rgba(140,160,255,.22)}
 #sky{position:absolute;inset:0;width:100%;height:100%;touch-action:none;background:#04050d}
+#camVid{position:absolute;inset:0;width:100%;height:100%;object-fit:cover;display:none;background:#000}
+body.cam #camVid{display:block}
+body.cam #sky{background:transparent}
+.chip.fov{display:flex;align-items:center;gap:6px;font-size:12px}.chip.fov input{width:110px;accent-color:#ffd77a}.chip.fov[hidden]{display:none}
 .hud{position:absolute;max-width:calc(100% - 150px);line-height:1.4;top:calc(env(safe-area-inset-top) + 52px);left:16px;font-size:11px;color:#9aa6d8;z-index:5;pointer-events:none}
 .skybtns{position:absolute;right:12px;top:calc(env(safe-area-inset-top) + 48px);display:flex;flex-direction:column;gap:6px;align-items:flex-end;z-index:5}
 .card{position:absolute;left:10px;right:10px;bottom:10px;padding:16px;z-index:10;max-height:62%;overflow:auto}

diff --git a/tonight.js b/tonight.js
@@ -8,7 +8,7 @@ const SHOWERS=[ // [name, peak month(1-12), day, ZHR, radiant/parent, active ran
  ['Northern Taurids',11,12,5,'Taurus · Comet Encke (fireballs)','Oct 20 – Dec 10'],['Leonids',11,17,15,'Leo · Comet Tempel–Tuttle','Nov 6 – 30'],
  ['Geminids',12,14,150,'Gemini · asteroid 3200 Phaethon','Dec 4 – 20'],['Ursids',12,22,10,'Ursa Minor · Comet Tuttle','Dec 17 – 26']];
 const PL=['Mercury','Venus','Mars','Jupiter','Saturn','Uranus','Neptune'];
-const ICON={Mercury:'☿',Venus:'♀',Mars:'♂',Jupiter:'♃',Saturn:'♄',Uranus:'⛢',Neptune:'♆'};
+const ICON={Mercury:'',Venus:'',Mars:'',Jupiter:'',Saturn:'🪐',Uranus:'',Neptune:''};
 const COL={Mercury:'#5b5048',Venus:'#6b5a33',Mars:'#6b2f22',Jupiter:'#5e4a30',Saturn:'#5e5030',Uranus:'#2a5560',Neptune:'#26386b'};
 let tle=null,clouds=null,cloudKey='';
 async function getTLE(){

diff --git a/sw.js b/sw.js
@@ -1,4 +1,4 @@
-const V='stargaze-v1';
+const V='stargaze-v2';
 const CORE=['./','index.html','style.css','app.js','sky.js','tonight.js','facts.js','data.js','manifest.webmanifest','lib/astronomy.browser.min.js','lib/satellite.min.js','lib/model-viewer.min.js','icons/icon-192.png'];
 self.addEventListener('install',e=>{e.waitUntil(caches.open(V).then(c=>c.addAll(CORE)));self.skipWaiting()});
 self.addEventListener('activate',e=>{e.waitUntil(caches.keys().then(k=>Promise.all(k.filter(x=>x!==V).map(x=>caches.delete(x)))).then(()=>self.clients.claim()))});
